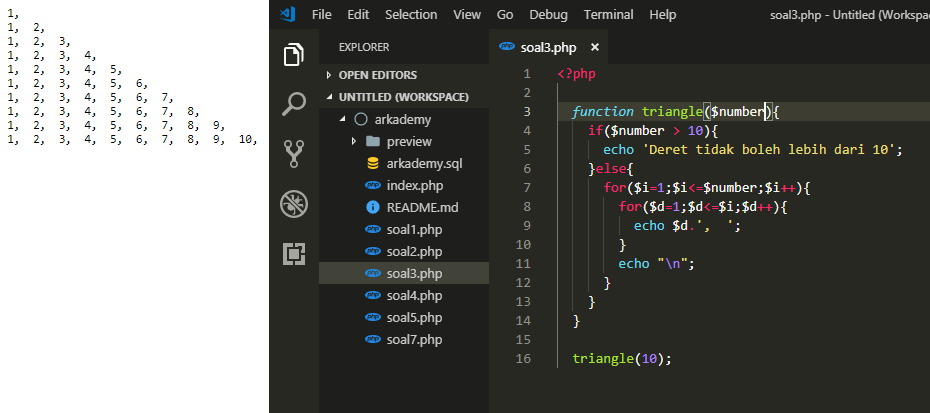
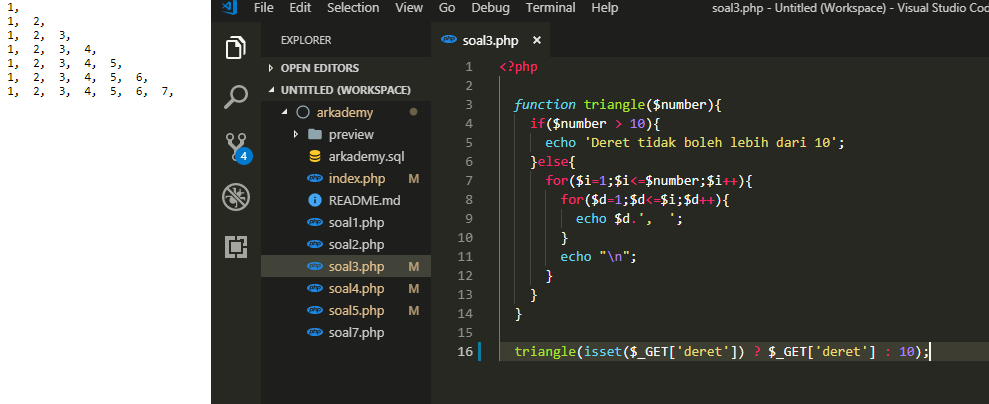
update

diff --git a/index.php b/index.php
@@ -27,7 +27,17 @@
       Hasil Query : <img src="preview/query_result.png"><br><br><br>
       Query : <i><b>SELECT product_categories.id,product_categories.name, COUNT(product_categories.id) AS Jumlah_product FROM product_categories INNER JOIN products ON product_categories.id=products.category_id GROUP BY product_categories.id</b></i><br><br><br>
     <?php 
-      }else if($preview < 8){
+      }else if($preview == 3){
+        echo "<img src='preview/soal $preview.png'><br><br>";
+        echo "<h4 style='text-align:center'><a href='http://localhost/arkademy/soal$preview.php?deret=7' target='_blank'>Go To Application</a></h4>";
+      }else if($preview == 4){
+        echo "<img src='preview/soal $preview.png'><br><br>";
+        echo "<h4 style='text-align:center'><a href='http://localhost/arkademy/soal$preview.php?people=6' target='_blank'>Go To Application</a></h4>";
+      }else if($preview == 5){
+        echo "<img src='preview/soal $preview.png'><br><br>";
+        echo "<h4 style='text-align:center'><a href='http://localhost/arkademy/soal$preview.php?text=dimas&find=d' target='_blank'>Go To Application</a></h4>";
+      }
+      else if($preview < 8){
         echo "<img src='preview/soal $preview.png'><br><br>";
         echo "<h4 style='text-align:center'><a href='http://localhost/arkademy/soal$preview.php' target='_blank'>Go To Application</a></h4>";
       }

diff --git a/soal5.php b/soal5.php
@@ -1,11 +1,11 @@
 <?php
 
-  function countSameLetters($letters,$find){
+  function countSameLetters($text,$find){
     $result = '';
     $counter = 1;
     for($i=0;$i<$counter;$i++){
-      if(@$letters[$i] != ""){
-        if(@$letters[$i] == $find){
+      if(@$text[$i] != ""){
+        if(@$text[$i] == $find){
           $result++;
         }
         $counter++;
@@ -13,7 +13,8 @@
         break;
       }
     }
-    return "found ($result) of ($find) in ($letters)";
+    return "found ($result) of ($find) in ($text)";
   }
 
-  echo countSameLetters('alfian','a');
+  echo countSameLetters(isset($_GET['text']) ? $_GET['text'] : 'alfian',
+  isset($_GET['find']) ? $_GET['find'] : 'a');

diff --git a/soal4.php b/soal4.php
@@ -8,4 +8,4 @@
     return "result : $result handshake from $people people";
   }
 
-  echo countHandShake(4);
+  echo countHandShake(isset($_GET['people']) ? $_GET['people'] : 10);

diff --git a/soal3.php b/soal3.php
@@ -13,4 +13,4 @@
     }
   }
 
-  triangle(10);
+  triangle(isset($_GET['deret']) ? $_GET['deret'] : 10);
